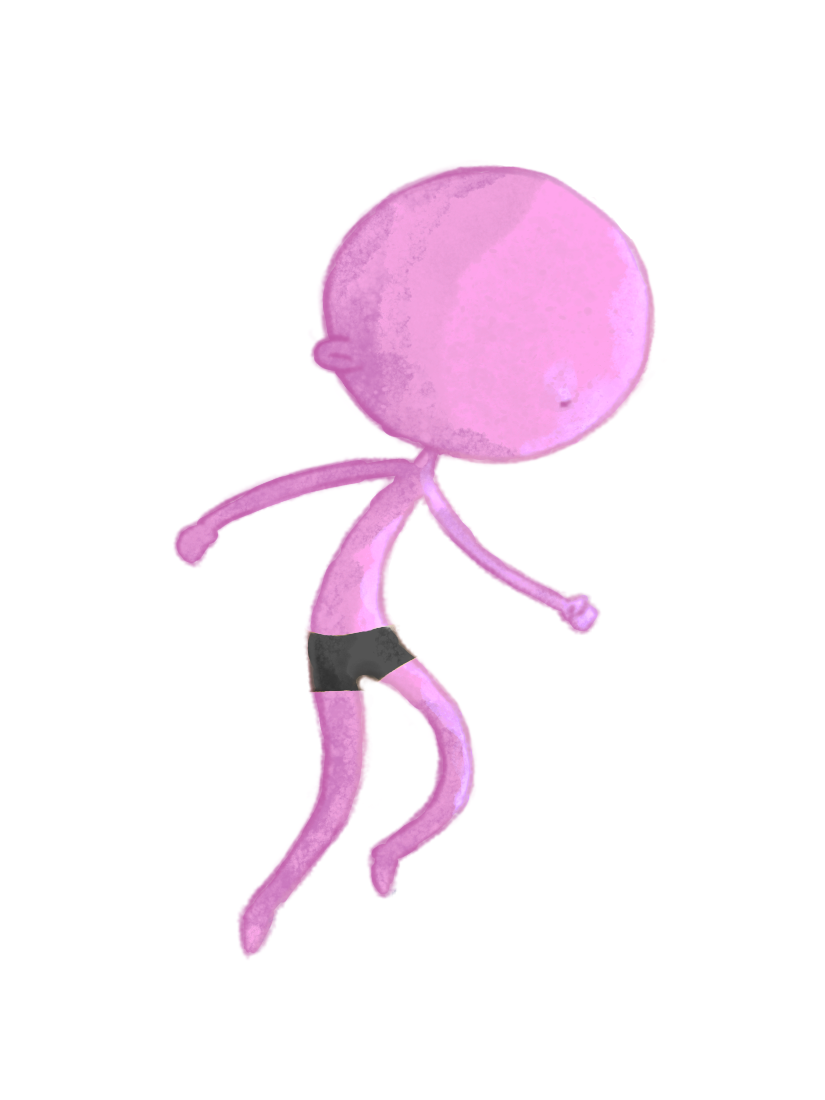
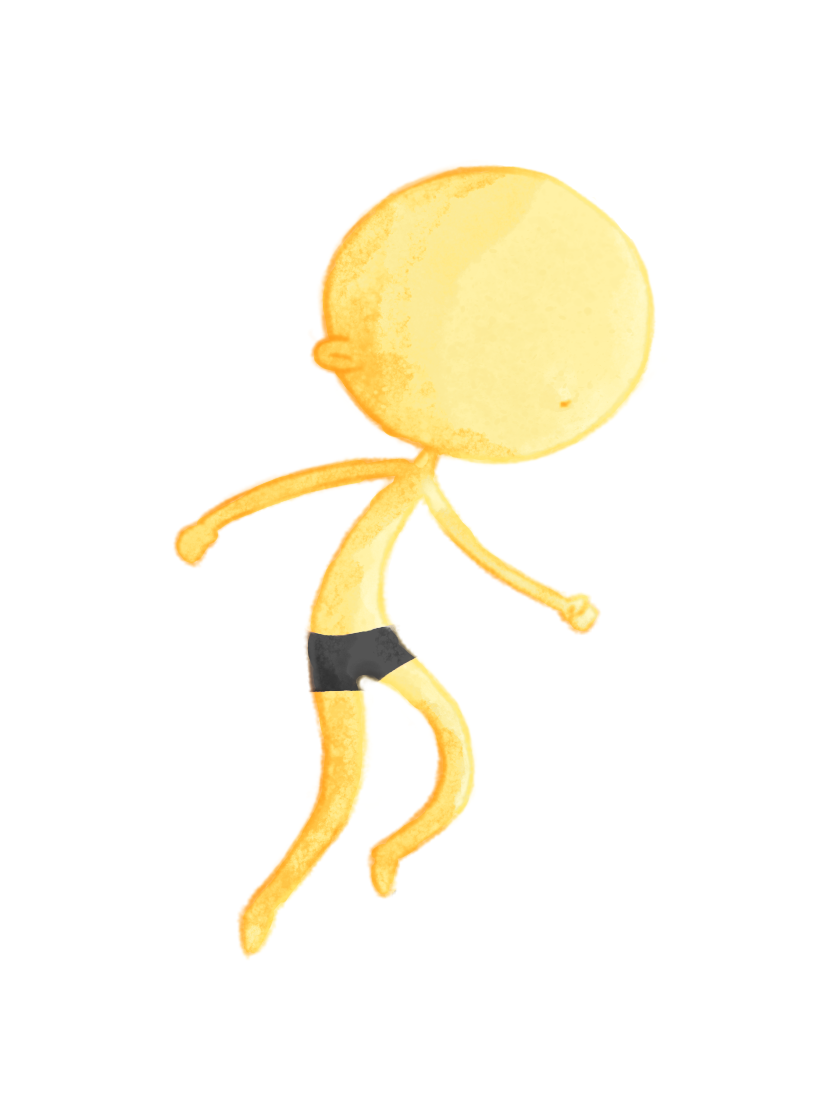
adding more bottom imgs; removing alternative skin colors

Changed region(s): [[0.2121, 0.1236, 0.8182, 0.8655]]

diff --git a/src/utils/data/avatarData.ts b/src/utils/data/avatarData.ts
@@ -9,9 +9,6 @@ import skin6 from '../../assets/images/skin/thumb06.jpg'
 import skin7 from '../../assets/images/skin/thumb07.jpg'
 import skin8 from '../../assets/images/skin/thumb08.jpg'
 import skin9 from '../../assets/images/skin/thumb09.jpg'
-import skin10 from '../../assets/images/skin/thumb10.jpg'
-import skin11 from '../../assets/images/skin/thumb11.jpg'
-import skin12 from '../../assets/images/skin/thumb12.jpg'
 
 import skinImg1 from '../../assets/images/skin/skin01.png'
 import skinImg2 from '../../assets/images/skin/skin02.png'
@@ -22,9 +19,6 @@ import skinImg6 from '../../assets/images/skin/skin06.png'
 import skinImg7 from '../../assets/images/skin/skin07.png'
 import skinImg8 from '../../assets/images/skin/skin08.png'
 import skinImg9 from '../../assets/images/skin/skin09.png'
-import skinImg10 from '../../assets/images/skin/skin10.png'
-import skinImg11 from '../../assets/images/skin/skin11.png'
-import skinImg12 from '../../assets/images/skin/skin12.png'
 
 import eyes1 from '../../assets/images/eyes/thumb01.png'
 import eyes2 from '../../assets/images/eyes/thumb02.png'
@@ -251,6 +245,12 @@ import bottom12 from '../../assets/images/bottom/thumb12.png'
 import bottom13 from '../../assets/images/bottom/thumb13.png'
 import bottom14 from '../../assets/images/bottom/thumb14.png'
 import bottom15 from '../../assets/images/bottom/thumb15.png'
+import bottom16 from '../../assets/images/bottom/thumb16.png'
+import bottom17 from '../../assets/images/bottom/thumb17.png'
+import bottom18 from '../../assets/images/bottom/thumb18.png'
+import bottom19 from '../../assets/images/bottom/thumb19.png'
+import bottom20 from '../../assets/images/bottom/thumb20.png'
+import bottom21 from '../../assets/images/bottom/thumb21.png'
 
 import bottomImg1 from '../../assets/images/bottom/bottom01.png'
 import bottomImg2 from '../../assets/images/bottom/bottom02.png'
@@ -267,6 +267,12 @@ import bottomImg12 from '../../assets/images/bottom/bottom12.png'
 import bottomImg13 from '../../assets/images/bottom/bottom13.png'
 import bottomImg14 from '../../assets/images/bottom/bottom14.png'
 import bottomImg15 from '../../assets/images/bottom/bottom15.png'
+import bottomImg16 from '../../assets/images/bottom/bottom16.png'
+import bottomImg17 from '../../assets/images/bottom/bottom17.png'
+import bottomImg18 from '../../assets/images/bottom/bottom18.png'
+import bottomImg19 from '../../assets/images/bottom/bottom19.png'
+import bottomImg20 from '../../assets/images/bottom/bottom20.png'
+import bottomImg21 from '../../assets/images/bottom/bottom21.png'
 
 import shoes1 from '../../assets/images/shoes/thumb01.png'
 import shoes2 from '../../assets/images/shoes/thumb02.png'
@@ -416,18 +422,6 @@ export const avatarData = [
             {
                 thumb: skin9,
                 full: skinImg9
-            },
-            {
-                thumb: skin10,
-                full: skinImg10
-            },
-            {
-                thumb: skin11,
-                full: skinImg11
-            },
-            {
-                thumb: skin12,
-                full: skinImg12
             }
         ]
     },
@@ -930,6 +924,30 @@ export const avatarData = [
             {
                 thumb: bottom15,
                 full: bottomImg15
+            },
+            {
+                thumb: bottom16,
+                full: bottomImg16
+            },
+            {
+                thumb: bottom17,
+                full: bottomImg17
+            },
+            {
+                thumb: bottom18,
+                full: bottomImg18
+            },
+            {
+                thumb: bottom19,
+                full: bottomImg19
+            },
+            {
+                thumb: bottom20,
+                full: bottomImg20
+            },
+            {
+                thumb: bottom21,
+                full: bottomImg21
             }
         ]
     },
